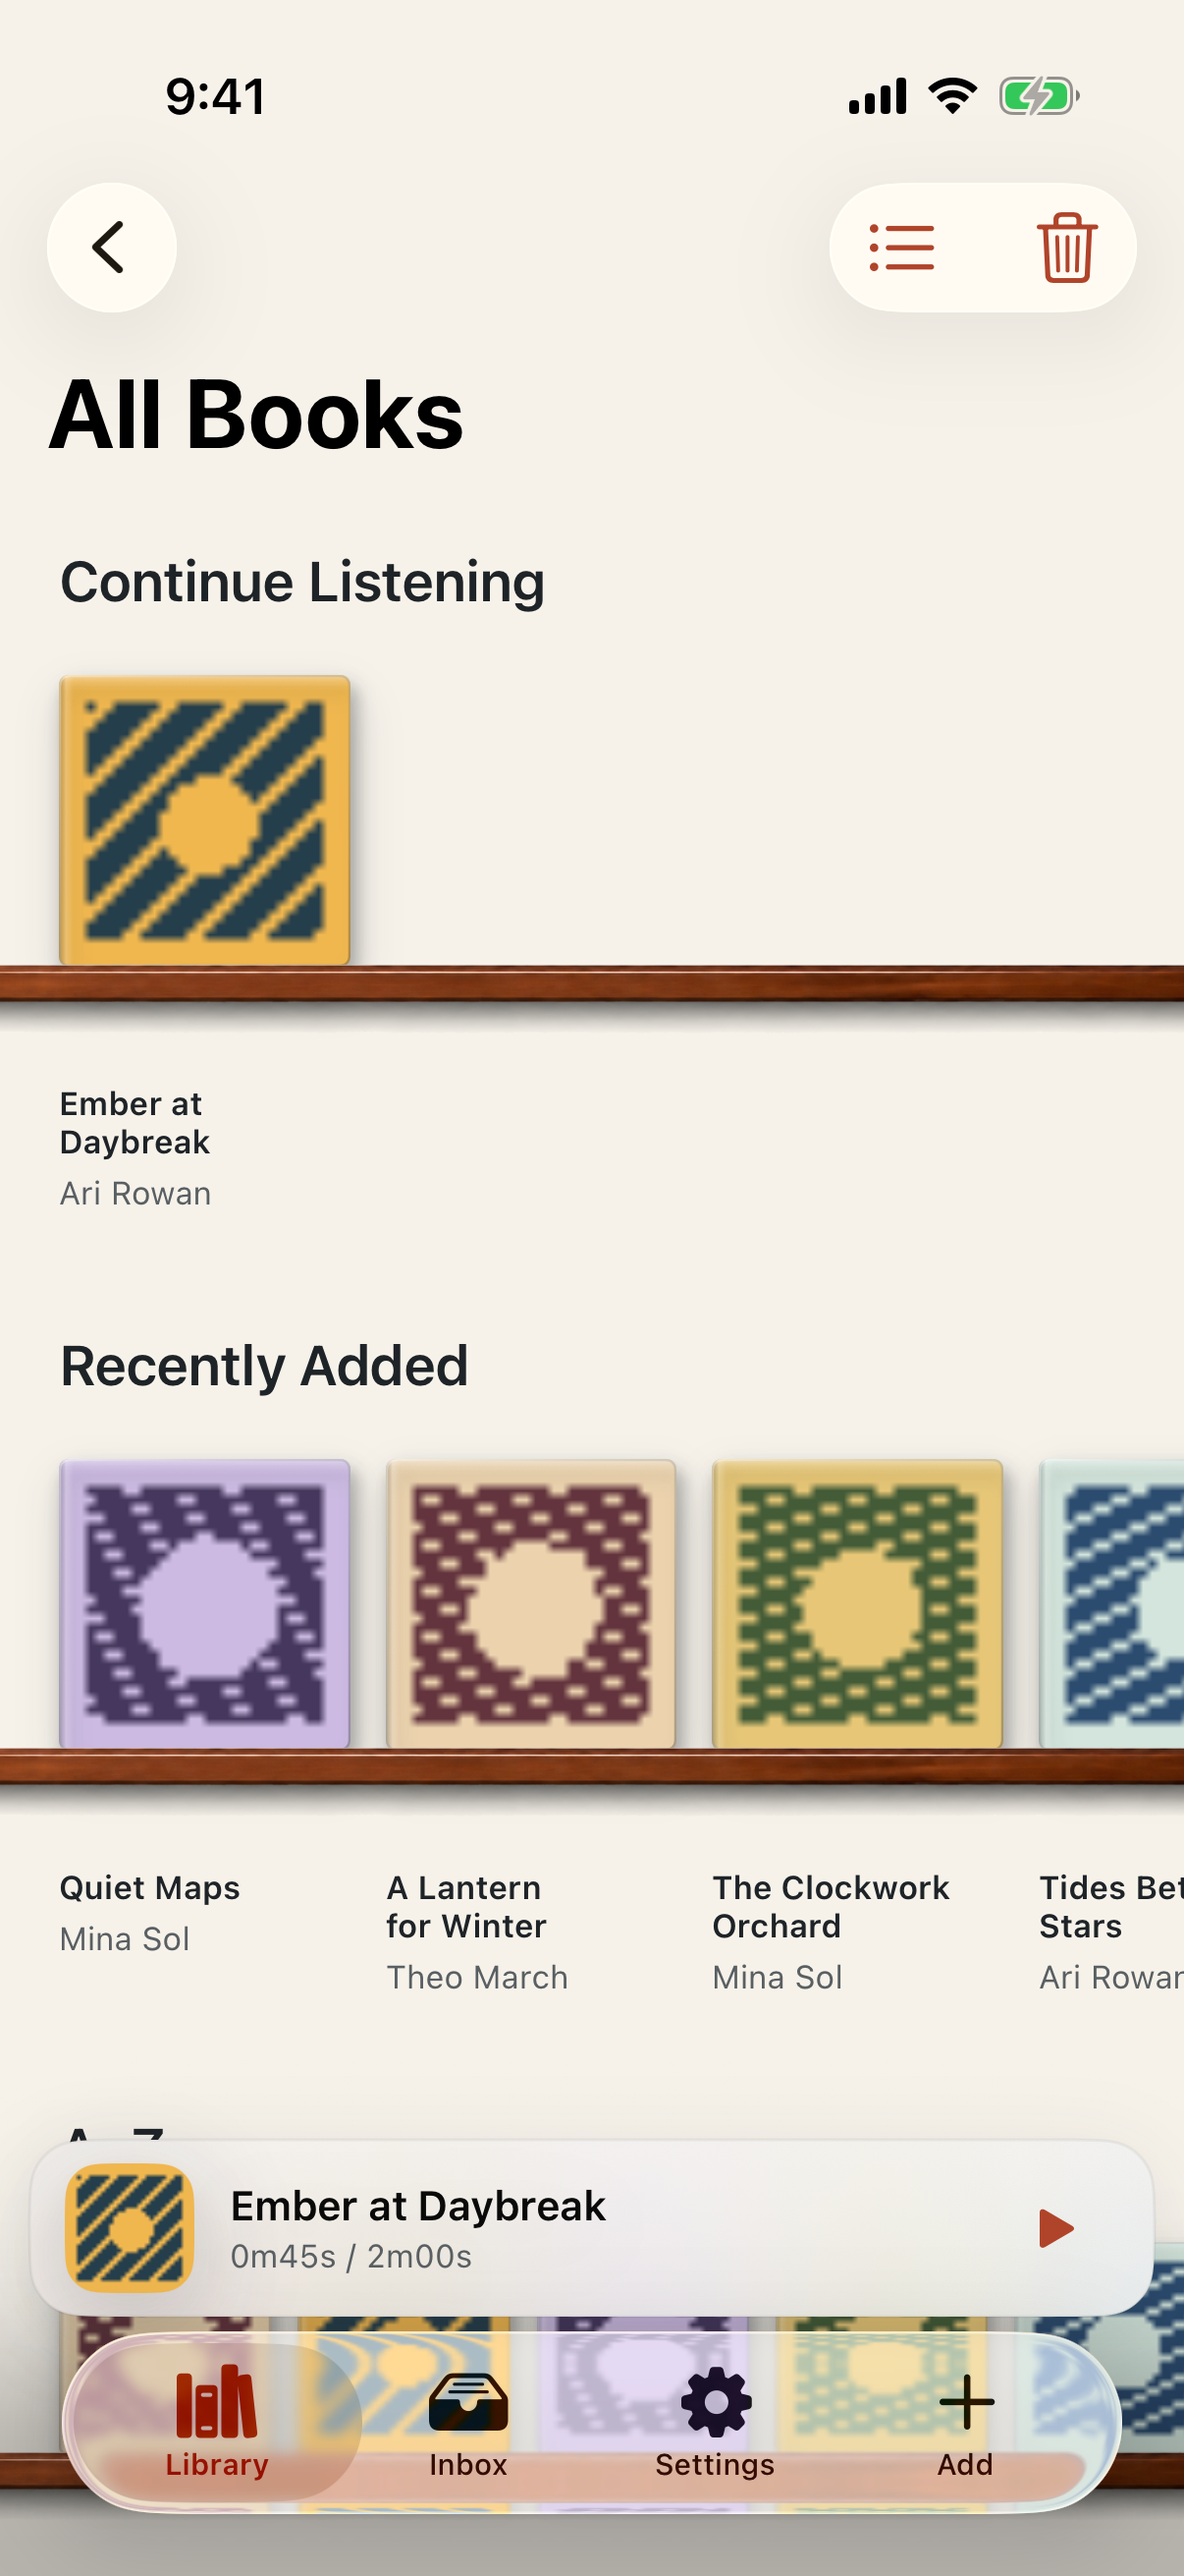
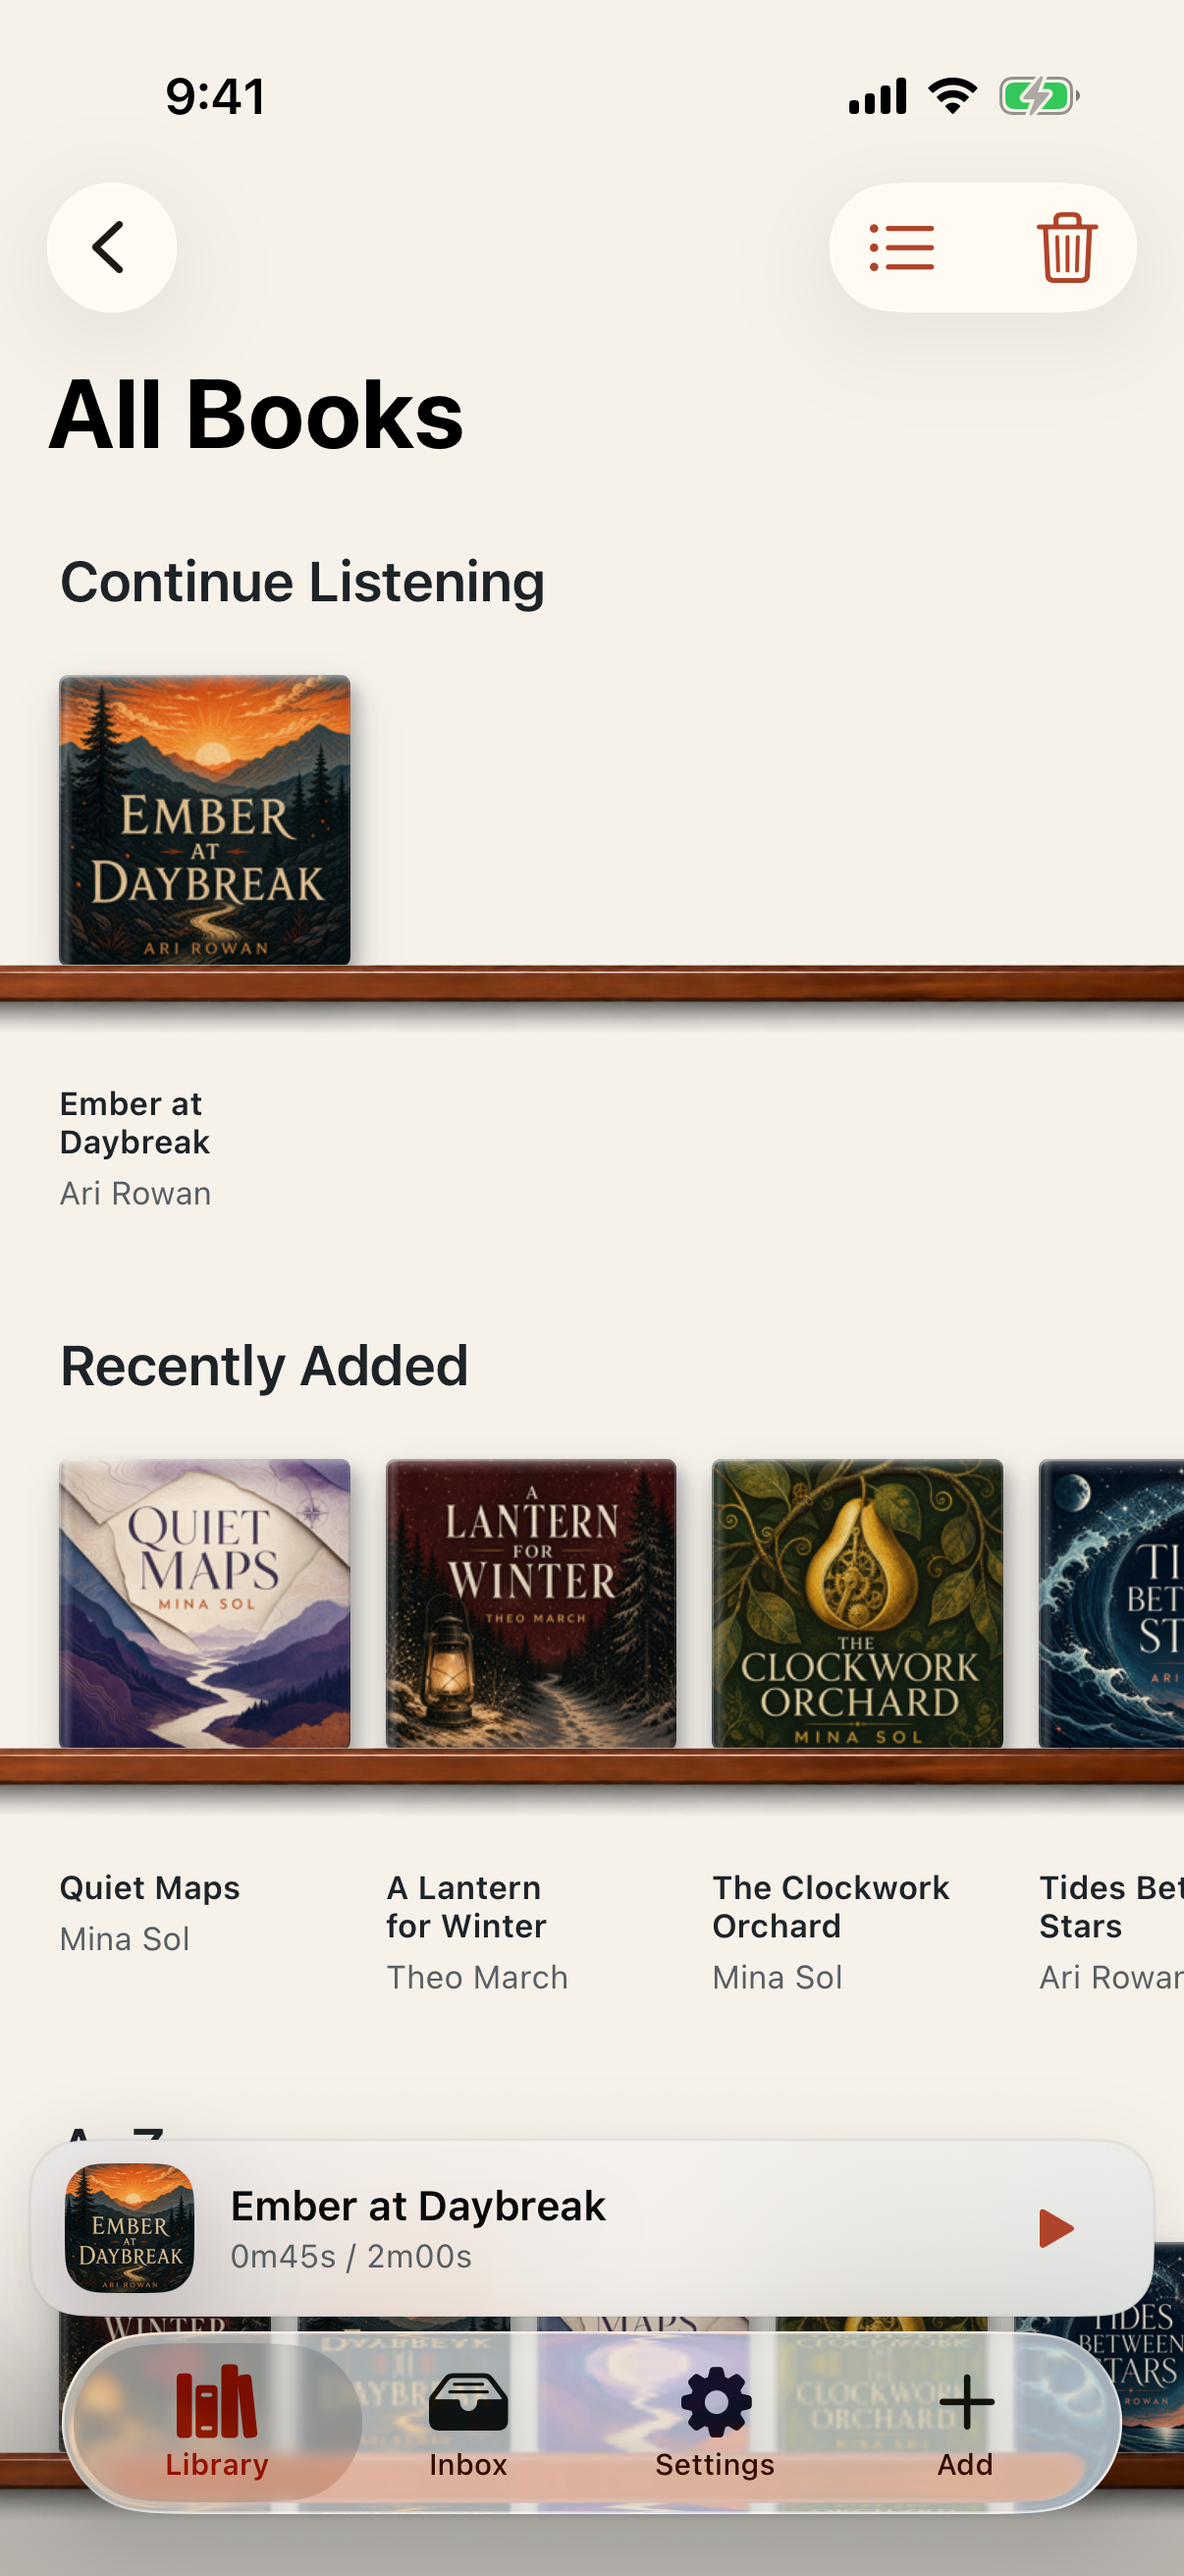
feat: refresh Bookshelf site artwork and navigation

Changed region(s): [[0.0307, 0.5561, 1.0, 0.6796], [0.0307, 0.8341, 1.0, 0.9886], [0.0307, 0.2471, 0.3068, 0.4016]]

diff --git a/docs/styles.css b/docs/styles.css
@@ -23,6 +23,10 @@ html {
   scroll-behavior: smooth;
 }
 
+[id] {
+  scroll-margin-top: 100px;
+}
+
 body {
   margin: 0;
   min-width: 320px;
@@ -73,9 +77,14 @@ a:focus-visible {
 }
 
 .site-header {
-  position: relative;
+  position: sticky;
+  top: 0;
   z-index: 20;
   border-bottom: 1px solid var(--line);
+  background: rgba(247, 240, 229, 0.88);
+  box-shadow: 0 8px 28px rgba(54, 31, 19, 0.05);
+  backdrop-filter: blur(18px) saturate(1.15);
+  -webkit-backdrop-filter: blur(18px) saturate(1.15);
 }
 
 .nav {

diff --git a/docs/index.html b/docs/index.html
@@ -47,7 +47,6 @@
           </p>
           <div class="hero-actions">
             <a class="button button-primary" href="#import">See the easiest way to import</a>
-            <a class="button button-secondary" href="https://github.com/anicolao/player">View the source</a>
           </div>
           <ul class="proof-list">
             <li>Works offline</li>
